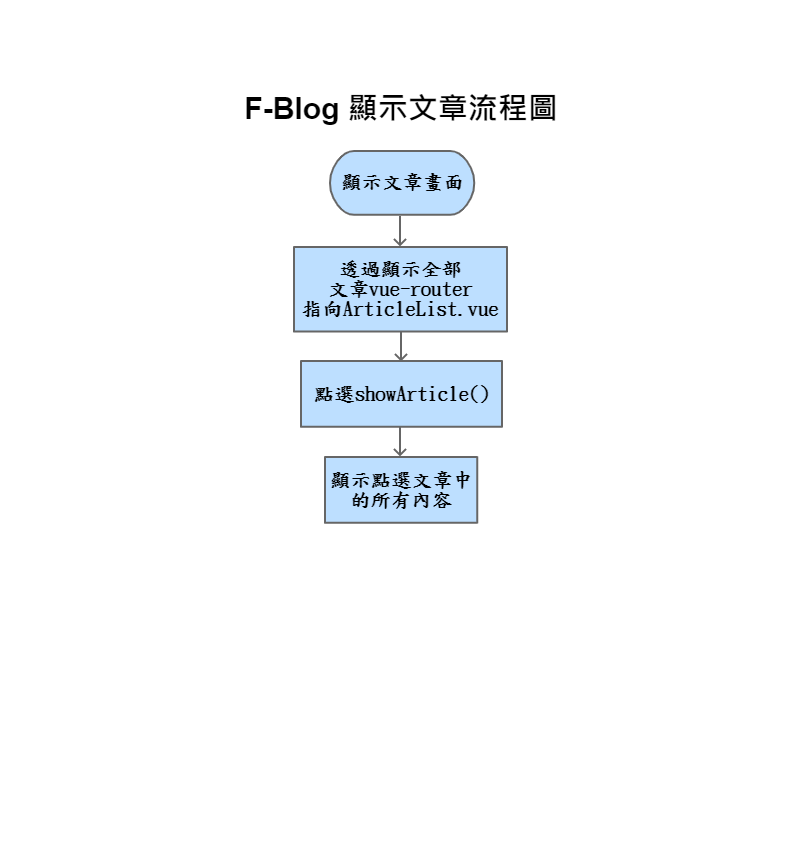
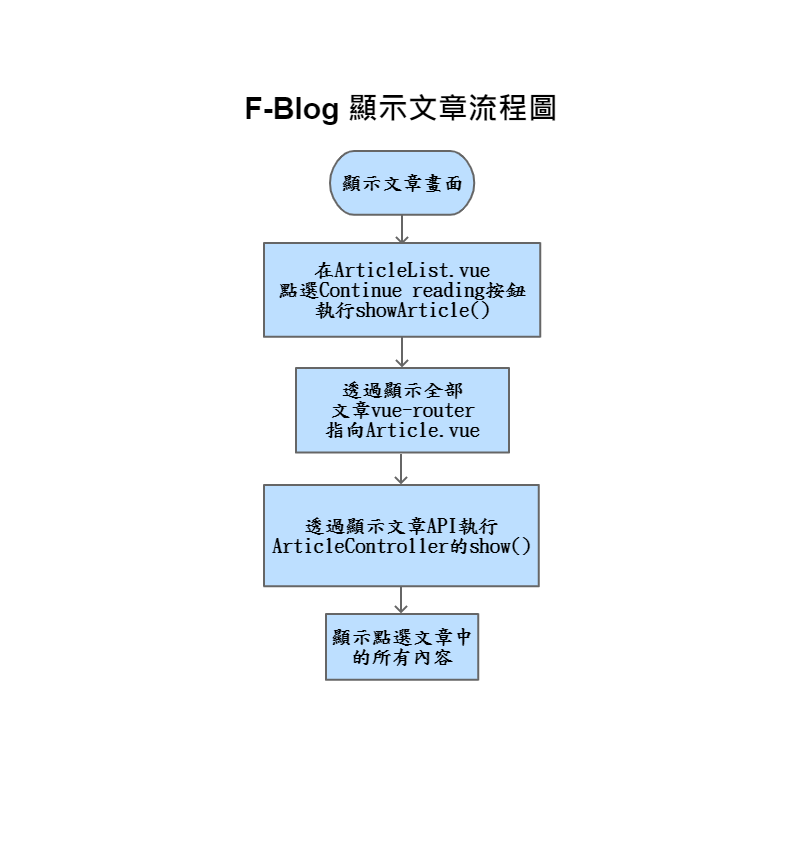
:memo: 更新f-blog文件的流程圖

Changed region(s): [[0.3325, 0.1835, 0.6952, 0.8259], [0.4232, 0.1835, 0.4534, 0.2447]]

diff --git a/fblog.md b/fblog.md
@@ -151,7 +151,7 @@ export default router;
 
 ##### 文章頁面(http://127.0.0.1:8000/article/:slug)
 
-在`ArticleList.vue`點選文章後，執行`showArticle(slug)`，在vue-router對應`article/:slug`指向`ArticleList.vue`，會依照`slug`這個參數去找文章，執行`ArticleController`的`show()`，顯示某個文章資料，並且顯示在頁面上。
+在`ArticleList.vue`點選文章後，執行`showArticle(slug)`，在vue-router對應`article/:slug`指向`Article.vue`，會依照`slug`這個參數去找文章，執行`ArticleController`的`show()`，顯示某個文章資料，並且顯示在頁面上。
 
 ##### 登入頁面(http://127.0.0.1:8000/login)
 
@@ -159,7 +159,7 @@ export default router;
 
 ##### 登入成功頁面(http://127.0.0.1:8000/admin)
 
-登入成功會在vue-router對應`/admin`指向`ArticleAdminList.vue`，畫面載入時到`created()`執行`initialize()`，vue-router對應`api/articles`指向，執行`ArticleController`的`index()`，拿到所有文章資料。
+登入成功會在vue-router對應`/admin`指向`ArticleAdminList.vue`，畫面載入時到`created()`執行`initialize()`，vue-router對應`api/articles`指向，執行`ArticleController`的`index()`，在`mongodb`拿到所有文章資料。
 
 點選`NEW ARTICLE`按鈕，會先執行`computed`的`formTitle()`決定視窗的標題文字，顯示編輯視窗輸入完標題(title)、內容(content)、文章連結(URL)，按下save按鈕，執行`ArticleController`的`store()`會將資料存到`mongodb`。
 
